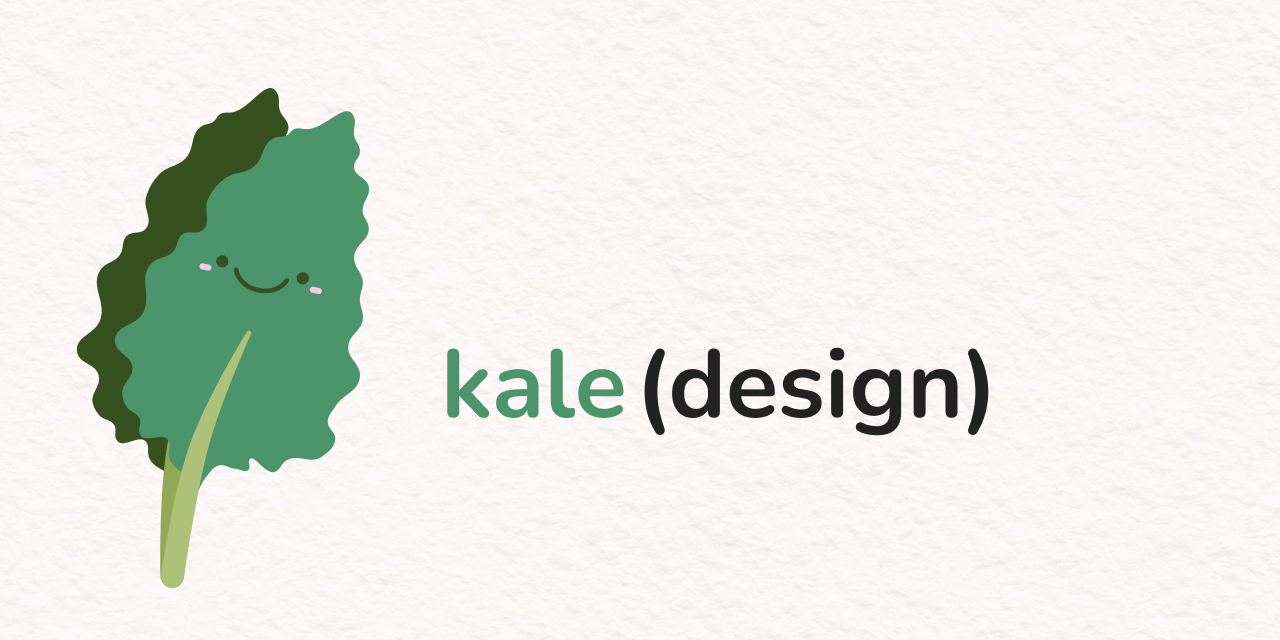
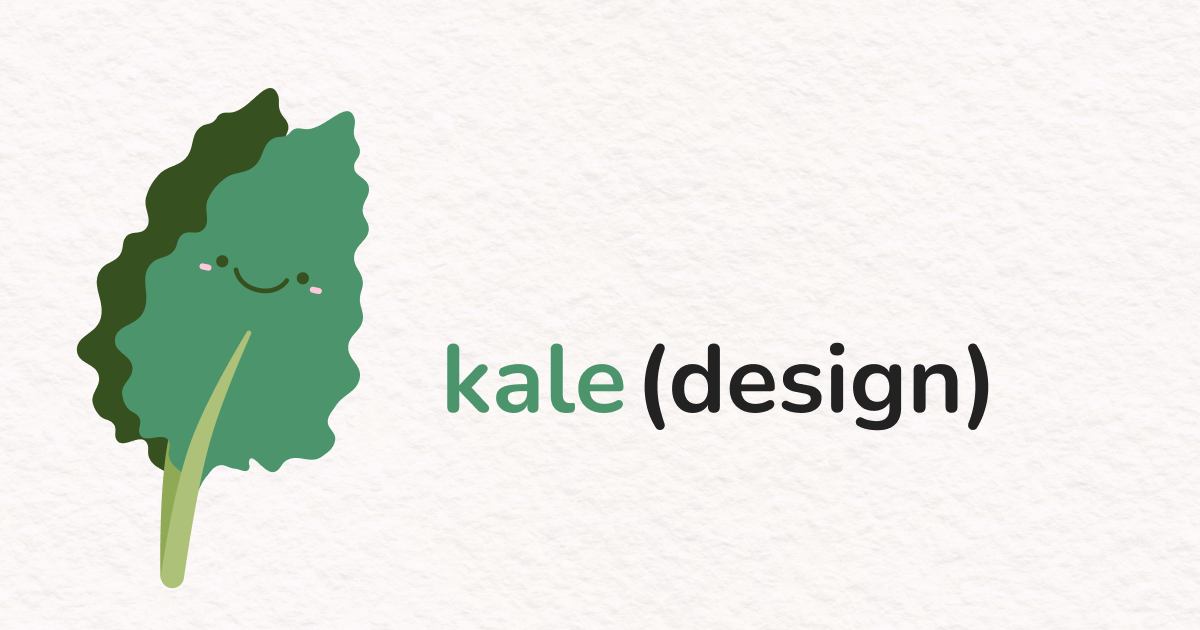
optimized social share ratio

Changed region(s): [[0.0617, 0.1206, 0.3083, 0.9349], [0.3392, 0.5429, 0.8325, 0.6937]]

diff --git a/index.html b/index.html
@@ -10,25 +10,25 @@
   <meta name="author" content="Kaeley Lenard">
   <meta name="description" property="og:description" content="Kaeley Lenard's interaction and visual design portfolio, encompassing
     personal design principles and recent works, built from scratch with HTML and CSS.">
-  <meta name="image" property="og:image" content="/preview.png">
+  <meta name="image" property="og:image" content="./preview.png">
   <meta name="keywords" content="Kaeley Lenard, kaeleylenard">
 
   <!-- Facebook Meta Tags -->
   <meta property="og:url" content="https://kaeleylenard.github.io/">
   <meta property="og:type" content="website">
-  <meta property="og:title" content=" kale(design) ">
+  <meta property="og:title" content=" kale(design)">
   <meta property="og:description" content="Kaeley Lenard's interaction and visual design portfolio, encompassing
   personal design principles and recent works, built from scratch with HTML and CSS.">
-  <meta property="og:image" content="https://kaeleylenard.github.io/preview.png">
+  <meta property="og:image" content="./preview.png">
 
   <!-- Twitter Meta Tags -->
   <meta name="twitter:card" content="summary_large_image">
   <meta property="twitter:domain" content="kaeleylenard.github.io">
   <meta property="twitter:url" content="https://kaeleylenard.github.io/">
-  <meta name="twitter:title" content=" kale(design) ">
+  <meta name="twitter:title" content=" kale(design)">
   <meta name="twitter:description" content="Kaeley Lenard's interaction and visual design portfolio, encompassing
   personal design principles and recent works, built from scratch with HTML and CSS.">
-  <meta name="twitter:image" content="https://kaeleylenard.github.io/preview.png">
+  <meta name="twitter:image" content="./preview.png">
 
   <!-- Styling -->
   <link rel="stylesheet" href="https://maxcdn.bootstrapcdn.com/bootstrap/4.5.0/css/bootstrap.min.css">
